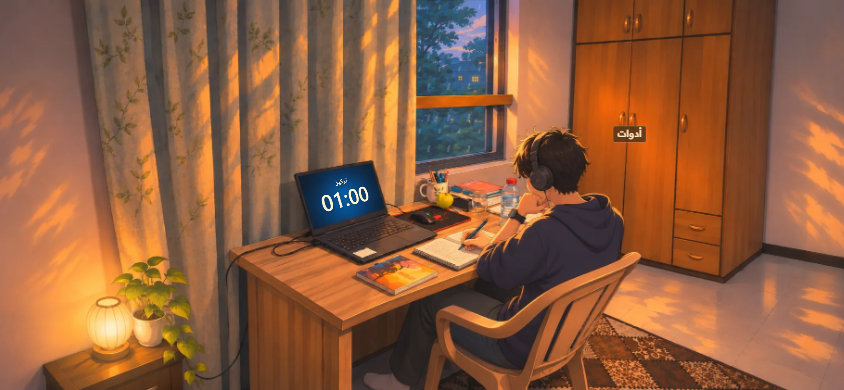
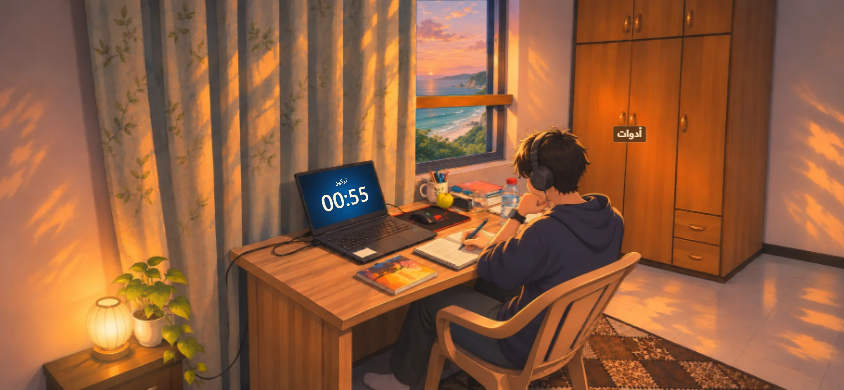
Add rain, autumn and coastal views behind the study window

Changed region(s): [[0.4929, 0.0, 0.5853, 0.4308], [0.3697, 0.4923, 0.4313, 0.5231]]

diff --git a/assets/index.html b/assets/index.html
@@ -45,6 +45,12 @@
  </div></section>
  <section id="gameRoom" aria-label="غرفة الدراسة" hidden>
  <div id="roomWorld"><img id="emptyPlate" alt=""><img id="studyPlate" alt="">
+ <div id="windowView" aria-hidden="true">
+   <img class="window-rain" src="room/window-rain.webp" alt="">
+   <img class="window-autumn" src="room/window-autumn.webp" alt="">
+   <img class="window-sea" src="room/window-sea.webp" alt="">
+   <i class="falling-leaf"></i><i class="falling-leaf second"></i><i class="water-glint"></i>
+ </div>
  <svg id="weatherLayer" viewBox="0 0 1870 841" aria-hidden="true"><defs><clipPath id="glassClip"></clipPath><pattern id="rainLines" width="43" height="67" patternUnits="userSpaceOnUse"><path d="M14 3l-3 13 M37 34l-2 9" stroke="#dbebf2" opacity=".58" stroke-width="1.5"/></pattern></defs><g clip-path="url(#glassClip)"><rect id="weatherTint" width="1870" height="841"/><rect id="weatherRain" x="-50" y="-70" width="2000" height="980" fill="url(#rainLines)"/></g></svg>
  <div id="lampGlow"></div>
  <div id="screenFace"><small id="screenPhase"></small><b id="screenDigits" dir="ltr" role="timer"></b></div>
@@ -201,7 +207,7 @@
     <button id="allowExact" class="permission-row"><span>التوقيت الدقيق</span><span id="exactStatus"></span></button>
     <p class="muted tiny">اضغط كل إذن لتفعيله. بدون التوقيت الدقيق ممكن يتأخر التنبيه بالخلفية. بعض الجوالات تحتاج السماح للتطبيق بالعمل بالخلفية من إعدادات البطارية.</p>
   </section>
-  <details class="cal-settings"><summary>أدوات متقدمة</summary><button id="calStart" class="secondary">معايرة مواضع اللمس</button></details><div class="about"><svg><use href="#leaf"/></svg><span>سَكَن ١.٤.٠ • مساحة هادئة للدراسة</span><p>مجاني، بدون إعلانات أو حساب. موقعك وإعداداتك وسجلّك يبقوا على جوالك. التسجيلات الطبيعية بترخيص CC0، وكل الأصوات محفوظة داخل التطبيق.</p><details><summary>المكتبات والتراخيص</summary><pre id="licenseText">حساب الصلاة: Adhan Java 1.2.1 — MIT
+  <details class="cal-settings"><summary>أدوات متقدمة</summary><button id="calStart" class="secondary">معايرة مواضع اللمس</button></details><div class="about"><svg><use href="#leaf"/></svg><span>سَكَن ١.٥.٠ • مساحة هادئة للدراسة</span><p>مجاني، بدون إعلانات أو حساب. موقعك وإعداداتك وسجلّك يبقوا على جوالك. التسجيلات الطبيعية بترخيص CC0، وكل الأصوات محفوظة داخل التطبيق.</p><details><summary>المكتبات والتراخيص</summary><pre id="licenseText">حساب الصلاة: Adhan Java 1.2.1 — MIT
 Copyright (c) 2016 Batoul Apps
 
 Permission is hereby granted, free of charge, to any person obtaining a copy of this software and associated documentation files (the “Software”), to deal in the Software without restriction, including without limitation the rights to use, copy, modify, merge, publish, distribute, sublicense, and/or sell copies of the Software, and to permit persons to whom the Software is furnished to do so, subject to the following conditions:
@@ -307,7 +313,6 @@ OTHER DEALINGS IN THE FONT SOFTWARE.
 <dialog id="roomDialog" class="sheet room-dialog" aria-labelledby="roomTitle">
   <div class="sheet-handle" aria-hidden="true"></div>
   <header class="sheet-header"><div><span class="eyebrow">غرفتك الصغيرة</span><h2 id="roomTitle">اختَر جوّك</h2></div><button class="icon-btn" data-close aria-label="إغلاق"><svg><use href="#close"/></svg></button></header>
-  <p class="scene-note">ست أجواء بسيطة لنفس الغرفة. اختَر المكان اللي بيريّحك.</p>
   <div id="roomChoices" class="scene-choices" aria-label="أجواء الغرفة"></div>
   <p class="scene-note">تغيير الجو بصري فقط. الصوت بتختاره بشكل مستقل من زر الأصوات، وما بيتغيّر لحاله.</p>
   <button id="roomSound" class="primary" type="button" hidden>اختيار صوت مناسب</button>

diff --git a/assets/room.js b/assets/room.js
@@ -27,6 +27,26 @@
     }
     $('roomPanel').dataset.session=snapshot.timer.status==='running'?snapshot.timer.phase:'idle';
   }
+  function addChoice(room) {
+      const button=document.createElement('button');button.type='button';button.dataset.roomChoice=room.id;button.setAttribute('aria-pressed','false');
+      const icon=document.createElementNS('http://www.w3.org/2000/svg','svg');
+      const use=document.createElementNS(icon.namespaceURI,'use');use.setAttribute('href','#'+room.icon);icon.append(use);icon.setAttribute('aria-hidden','true');
+      const name=document.createElement('strong');name.textContent=room.name;
+      const detail=document.createElement('small');detail.textContent=room.detail;
+      button.append(icon,name,detail);button.addEventListener('click',()=>hooks.save({visualScene:room.id}));$('roomChoices').append(button);
+  }
+  function enableWindowScenes() {
+    const views = [
+      {id:'autumn', name:'شباك الخريف', detail:'أوراق القيقب وضوء ذهبي', icon:'leaf', sound:'stream'},
+      {id:'sea', name:'شباك البحر', detail:'خليج هادئ عند الغروب', icon:'waves', sound:'ocean'}
+    ];
+    for (const view of views) {
+      const room = {...view, colors:rooms[0].colors};
+      rooms.push(room);
+      addChoice(room);
+    }
+    current='';
+  }
   function connect(callbacks) {
     hooks=callbacks;
     const camera=window.matchMedia('(orientation: portrait)');
@@ -34,16 +54,9 @@
     compose();
     camera.addListener(compose);
     document.querySelector('.window-set').addEventListener('click',()=>$('openRoom').click());
-    rooms.forEach(room=>{
-      const button=document.createElement('button');button.type='button';button.dataset.roomChoice=room.id;button.setAttribute('aria-pressed','false');
-      const icon=document.createElementNS('http://www.w3.org/2000/svg','svg');
-      const use=document.createElementNS(icon.namespaceURI,'use');use.setAttribute('href','#'+room.icon);icon.append(use);icon.setAttribute('aria-hidden','true');
-      const name=document.createElement('strong');name.textContent=room.name;
-      const detail=document.createElement('small');detail.textContent=room.detail;
-      button.append(icon,name,detail);button.addEventListener('click',()=>hooks.save({visualScene:room.id}));$('roomChoices').append(button);
-    });
+    rooms.forEach(addChoice);
     $('openRoom').addEventListener('click',()=>hooks.open($('roomDialog')));
     $('roomSound').addEventListener('click',()=>hooks.save({sound:$('roomSound').dataset.suggestedSound}));
   }
-  window.SakinRoom={connect,render,catalog:rooms};
+  window.SakinRoom={connect,render,catalog:rooms,enableWindowScenes};
 })();

diff --git a/assets/game-room.css b/assets/game-room.css
@@ -31,6 +31,55 @@ html[data-theme=dark] .setup-prayer {color:#ddd4bd}
 #studyPlate {opacity:0;transition:opacity .9s ease}
 #gameRoom[data-plate=study_notebook] #studyPlate {opacity:1}
 #weatherTint {fill:var(--window-color,transparent);opacity:.24}
+#windowView {
+  position:absolute;
+  overflow:hidden;
+  pointer-events:none;
+  -webkit-mask: url("room/glass-mask.webp") center / 100% 100% no-repeat;
+  mask: url("room/glass-mask.webp") center / 100% 100% no-repeat;
+}
+#windowView img {
+  position:absolute;
+  inset:0;
+  width:100%;
+  height:100%;
+  object-fit:cover;
+  opacity:0;
+  transition:opacity .45s ease;
+}
+#gameRoom[data-mood=rain] .window-rain,
+#gameRoom[data-mood=autumn] .window-autumn,
+#gameRoom[data-mood=sea] .window-sea {opacity:1}
+.falling-leaf,.water-glint {position:absolute;display:none}
+#gameRoom[data-mood=autumn] .falling-leaf {
+  display:block;
+  left:12%;top:-4%;
+  width:9px;height:6px;
+  border-radius:1px 85%;
+  background:#cb712e;
+  animation:leaf-drift 7s ease-in-out infinite;
+}
+#gameRoom[data-mood=autumn] .falling-leaf.second {left:46%;animation-delay:-3s;background:#f4ba53}
+@keyframes leaf-drift {
+  0% {transform:translate(0,0) rotate(10deg);opacity:0}
+  15%,82% {opacity:.85}
+  55% {transform:translate(23px,155px) rotate(125deg)}
+  100% {transform:translate(5px,355px) rotate(255deg);opacity:0}
+}
+#gameRoom[data-mood=sea] .water-glint {
+  display:block;left:4%;top:58%;width:43%;height:23%;
+  background:repeating-linear-gradient(177deg,transparent 0 9px,#ffe3b9 10px,transparent 11px 18px);
+  border-radius:50%;
+  animation:tide-light 5s ease-in-out infinite alternate;
+}
+@keyframes tide-light {from{transform:scaleX(.65);opacity:.02}to{transform:translate(4px,-2px) scaleX(1.04);opacity:.22}}
+html[data-visible=false] #gameRoom #windowView i {animation-play-state:paused}
+html[data-effects=light] #gameRoom #windowView i {display:none}
+html[data-effects=light] #windowView img {transition:none}
+@media (prefers-reduced-motion:reduce) {
+  #windowView i {display:none!important}
+  #windowView img {transition:none}
+}
 #weatherRain {display:none}
 #gameRoom[data-mood=rain] #weatherRain {display:block;animation:roomDrizzle 1.6s linear infinite}
 @keyframes roomDrizzle {to{transform:translate(-43px,67px)}}

diff --git a/assets/game-room.js b/assets/game-room.js
@@ -351,6 +351,13 @@
       try{const saved=JSON.parse(localStorage.getItem(storageKey));if(saved){
         restoreGeometry(saved);
       }}catch{}
+      const glass = scene.windowGlass;
+      const view = $('windowView');
+      Object.assign(view.style, {
+        left: glass.x + 'px', top: glass.y + 'px',
+        width: glass.width + 'px', height: glass.height + 'px'
+      });
+      window.SakinRoom.enableWindowScenes();
       buildTargets();wireCalibration();
       for(const b of document.querySelectorAll('[data-setup-preset]'))b.onclick=()=>document.querySelector('[data-focus="'+b.dataset.setupPreset+'"]').click();
       $('setupPrayer').onclick=actions.prayer;

diff --git a/src/com/sakin/study/AppStore.java b/src/com/sakin/study/AppStore.java
@@ -194,7 +194,7 @@ public final class AppStore {
             if (s.optString("city").length()>80 || s.optString("task").length()>120) throw new IllegalArgumentException("النص طويل جدًا");
             if (s.optInt("volume")<0||s.optInt("volume")>100) throw new IllegalArgumentException("Invalid volume");
             if (!java.util.Arrays.asList("rain","ocean","stream","brown","silence").contains(s.optString("sound"))) throw new IllegalArgumentException("Invalid sound");
-            if (!java.util.Arrays.asList("rain","nature","fire","cafe","night","quiet").contains(s.optString("visualScene"))) throw new IllegalArgumentException("Invalid visual scene");
+            if (!java.util.Arrays.asList("rain","nature","fire","cafe","night","quiet","autumn","sea").contains(s.optString("visualScene"))) throw new IllegalArgumentException("Invalid visual scene");
             JSONObject layers=s.getJSONObject("layerVolumes");
             java.util.Iterator<String> layerKeys=layers.keys();
             while(layerKeys.hasNext()) {String key=layerKeys.next();if(!key.matches("(rain|ocean|stream|brown)_[01]")||layers.getInt(key)<0||layers.getInt(key)>100)throw new IllegalArgumentException("Invalid layer volume");}

diff --git a/tests/check_scene.py b/tests/check_scene.py
@@ -23,6 +23,12 @@ for state in scene['states'].values():
     assert plate.suffix == '.webp' and plate.is_file()
     size += plate.stat().st_size
 assert size <= 3_000_000
+glass = scene['windowGlass']
+assert 0 <= glass['x'] < glass['x'] + glass['width'] <= width
+assert 0 <= glass['y'] < glass['y'] + glass['height'] <= height
+for asset in ('glass-mask', 'window-rain', 'window-autumn', 'window-sea'):
+    assert (assets / 'room' / (asset + '.webp')).is_file(), asset
+assert sum(path.stat().st_size for path in (assets / 'room').glob('*.webp')) <= 3_000_000
 assert scene['timerAnchor'] in scene['anchors']
 for anchor in scene['anchors'].values():
     polygon(anchor['quad'], True)

diff --git a/docs/ARCHITECTURE.md b/docs/ARCHITECTURE.md
@@ -32,13 +32,17 @@ The bridge exposes `getSnapshot`, `command`, `saveSettings`, `requestNotificatio
 
 `TimerCore` uses monotonic elapsed time for active countdowns and stores deadline information for recovery. `AppStore` persists transitions, serializes completion and credits actual focus time. Android alarms handle completion when the UI is not running. A finished focus session can hold a five-second rest grace with persistent monotonic/wall deadlines. The grace can be cancelled; prayer-fit sessions never queue it, and reboot clears it. Rest starts automatically and catches up from its stored start; the next focus needs a user action. AppStore serializes transitions to prevent duplicate completion credit/cues. AlarmReceiver briefly uses goAsync plus a bounded partial wake lock for a background grace, since idle alarm quotas make a second five-second alarm unreliable. The Activity keeps presentation stable through the grace and releases orientation/keep-screen-on at rest completion or cancellation.
 
-`NativePresentation` applies system/cutout/keyboard insets once at the native container. The WebView receives an already safe viewport. It uses native immersive bars with transient swipe access and sensor-landscape during sessions, and restores the system's orientation choice when leaving study mode.
+`NativePresentation` applies system/cutout/keyboard insets once at the native container. The WebView receives an already safe viewport. It uses native immersive bars with transient swipe access and sensor-landscape during sessions, and returns to the portrait setup when leaving study mode.
+
+## Interactive room and window
+
+GameRoom reads native timer snapshots. It maps the photographed desk, timer quad and touch targets into the same viewport. During focus it shows the study plate, and during rest it shows the empty plate. Calibration stores geometry overrides on the device. The three local window illustrations share a cropped glass alpha mask extracted from the green-key source. The persisted visualScene selects a view without changing audio playback. The original illustrated room remains available if the game scene cannot load.
 
 ## Background audio and prayer alerts
 
 The phase-two `SoundService` is a native media-playback foreground service with one AudioTrack stream. `PcmWave` lazily reads the bundled PCM16 stereo loops off the main thread. `PcmMixer` mixes/fades/wraps the source arrays on a continuous sample clock; MediaSession, audio focus and a partial CPU wake lock are service-owned. A sound-only monotonic sleep deadline pauses playback. See AUDIO.md for files, sources, licensing and device-test limits.
 
-`assets/scenes.json` remains the shared native audio-preset configuration. Phase three adds `room.js` and `room.css`: an original SVG room with six visual configurations, each containing colors, effect, optional existing audio-preset reference and a future character state. Two reused SVG layers crossfade; CSS handles motion. Hidden and inactive layers pause; reduced motion disables effects. Visual selection is native-persisted as `visualScene`, independently from sound. No character is implemented yet. UI commands `audioSleep` and `previewChime` control sleep and the native cue preview.
+`assets/scenes.json` remains the shared native audio-preset configuration. Phase three adds `room.js` and `room.css`: an original SVG room with six visual configurations, each containing colors, effect, optional existing audio-preset reference and a future character state. Two reused SVG layers crossfade; CSS handles motion. Hidden and inactive layers pause; reduced motion disables effects. Visual selection is native-persisted as `visualScene`, independently from sound. That older SVG room has no character. UI commands `audioSleep` and `previewChime` control sleep and the native cue preview.
 
 `Alarms` schedules local timer/prayer events. Exact-alarm access and notification access are separate. Without exact-alarm permission the fallback can be delayed; force-stop and device-specific battery restrictions remain relevant. No cloud push service is involved.
 

diff --git a/README.md b/README.md
@@ -4,15 +4,15 @@
 
 **Native Android APK · Java + local WebView · Arabic RTL · Offline**
 
-[تحميل التطبيق من الإصدارات](https://github.com/hasanazir1/study_with_me/releases/tag/v1.4.0) · [التقدّم الحالي](docs/PROGRESS.md) · [الخطة](docs/ROADMAP.md) · [تعليمات التطوير](docs/DEVELOPMENT.md)
+[تحميل التطبيق من الإصدارات](https://github.com/hasanazir1/study_with_me/releases/tag/v1.5.0) · [التقدّم الحالي](docs/PROGRESS.md) · [الخطة](docs/ROADMAP.md) · [تعليمات التطوير](docs/DEVELOPMENT.md)
 
-![سَكَن — معاينة غرفة المرحلة الثالثة](docs/game-room-landscape.png)
+![سَكَن — غرفة الدراسة مع إطلالة البحر](docs/game-room-landscape.png)
 
 *معاينة لنفس ملفات الواجهة، بمواقيت توضيحية. ليست صورة من جهاز أندرويد فعلي.*
 
 ## وين وصلنا؟
 
-سَكَن 1.4.0 · غرفة المكتب. اختَر المدة والهدف بالطول، وابدأ لرؤية الشخصية على المكتب بالعرض. المس شاشة اللابتوب للإيقاف والاستئناف، أو افتح أدوات الخزانة للمواقيت وباقي الوظائف.
+سَكَن 1.5.0 · غرفة المكتب وشباكها. المس الشباك لاختيار المطر أو الخريف أو البحر. اختَر المدة والهدف بالطول، وابدأ لرؤية الشخصية على المكتب بالعرض. المس شاشة اللابتوب للإيقاف والاستئناف، أو افتح أدوات الخزانة للمواقيت وباقي الوظائف.
 
 الريبو يحفظ نسختين سابقتين كنقطتي بداية، ثم تجهيزات Git والتوثيق والفحوص. التاريخ الأولي مستورد من نسخ محفوظة؛ ليس سجلًا لكل تعديل قديم على حدة. من الآن نسجّل التعديلات بcommits صغيرة وواضحة.
 

diff --git a/docs/PROGRESS.md b/docs/PROGRESS.md
@@ -1,5 +1,9 @@
 # التقدّم الحالي — سَكَن
 
+## 1.5.0 · المرحلة B
+
+يعرض الشباك مطرًا فوق البلدة أو خريفًا في البستان أو بحرًا عند الغروب. القناع مأخوذ من لون الزجاج في الصورة الأصلية، وتظل الستارة وإطار الشباك ظاهرين في التركيز والراحة. يحفظ التطبيق اختيار المنظر على الجهاز، ويضبط المستخدم الصوت بشكل مستقل. جرّب التبديل باللمس وإعادة فتح التطبيق على الهاتف.
+
 ## 1.4.0 · المرحلة A
 الفرع `feature/game-room-v2` مبني على 1.3.2. تحتفظ أندرويد بالمؤقّت وسجلّ التركيز والصلاة والصوت. تستعمل الغرفة صورتين محليتين من المكتب بحجم إجمالي 300770 بايت. بقيت رسمة الإصدار السابق داخل المشروع لتعمل عند تعذّر تحميل المشهد.
 

diff --git a/docs/ROADMAP.md b/docs/ROADMAP.md
@@ -2,7 +2,7 @@
 
 ## غرفة المكتب المرسومة
 - **A · الإصدار 1.4.0** — شاشة تحضير عمودية، صورتا الغرفة، مؤقّت على اللابتوب ومعايرة مواضع اللمس.
-- **B** — تجربة مطر واحدة من خلال زجاج الشباك باستخدام صورة الزجاج الأخضر، ثم إضافة الخريف والبحر بعد تجربة الأداء على الجوال.
+- **B · الإصدار 1.5.0** — مطر وخريف وبحر داخل زجاج الشباك، مع أجواء محفوظة وتحكم مستقل بالصوت. تجربة الأداء والبطارية على الهاتف مطلوبة.
 - **C** — دخول الشخصية ومشيها إلى المكتب بالصور المتتابعة.
 - **D** — وضع الدراسة باللابتوب.
 - **E** — نقل المؤقّت إلى ساعة حائط بعد تجهيز رسمها. يحدد `timerAnchor` سطح العرض واللمس معًا.

diff --git a/CHANGELOG.md b/CHANGELOG.md
@@ -1,5 +1,11 @@
 # Changelog
 
+## 1.5.0 · إطلالة الشباك
+
+- ثلاث إطلالات محلية للمطر والخريف والبحر في غرفتي التركيز والراحة.
+- حركة قطرات وأوراق ولمعان خفيف، تراعي خيار تقليل الحركة.
+- يثبت APK برقم البناء 9 كتحديث للنسخ السابقة.
+
 ## 1.4.0 · غرفة الدراسة
 - اختيار هدف الجلسة ومدّتها من شاشة التحضير بالطول.
 - المؤقّت على شاشة اللابتوب. تظهر الشخصية عند التركيز وتغادر خلال الاستراحة.

diff --git a/AGENTS.md b/AGENTS.md
@@ -7,7 +7,7 @@
 3. `docs/ROADMAP.md` for the accepted phased plan
 4. `docs/ARCHITECTURE.md` before changing native or UI behavior
 
-Current build: Android 1.4.0 / versionCode 8. The portrait setup opens the painted landscape study room. Geometry, poses and the timer anchor are defined in assets/room/scene.json. Preserve the original illustrated fallback.
+Current build: Android 1.5.0 / versionCode 9. The window views use packaged artwork and a glass mask. Start at docs/PROGRESS.md.
 
 ## Product constraints
 
